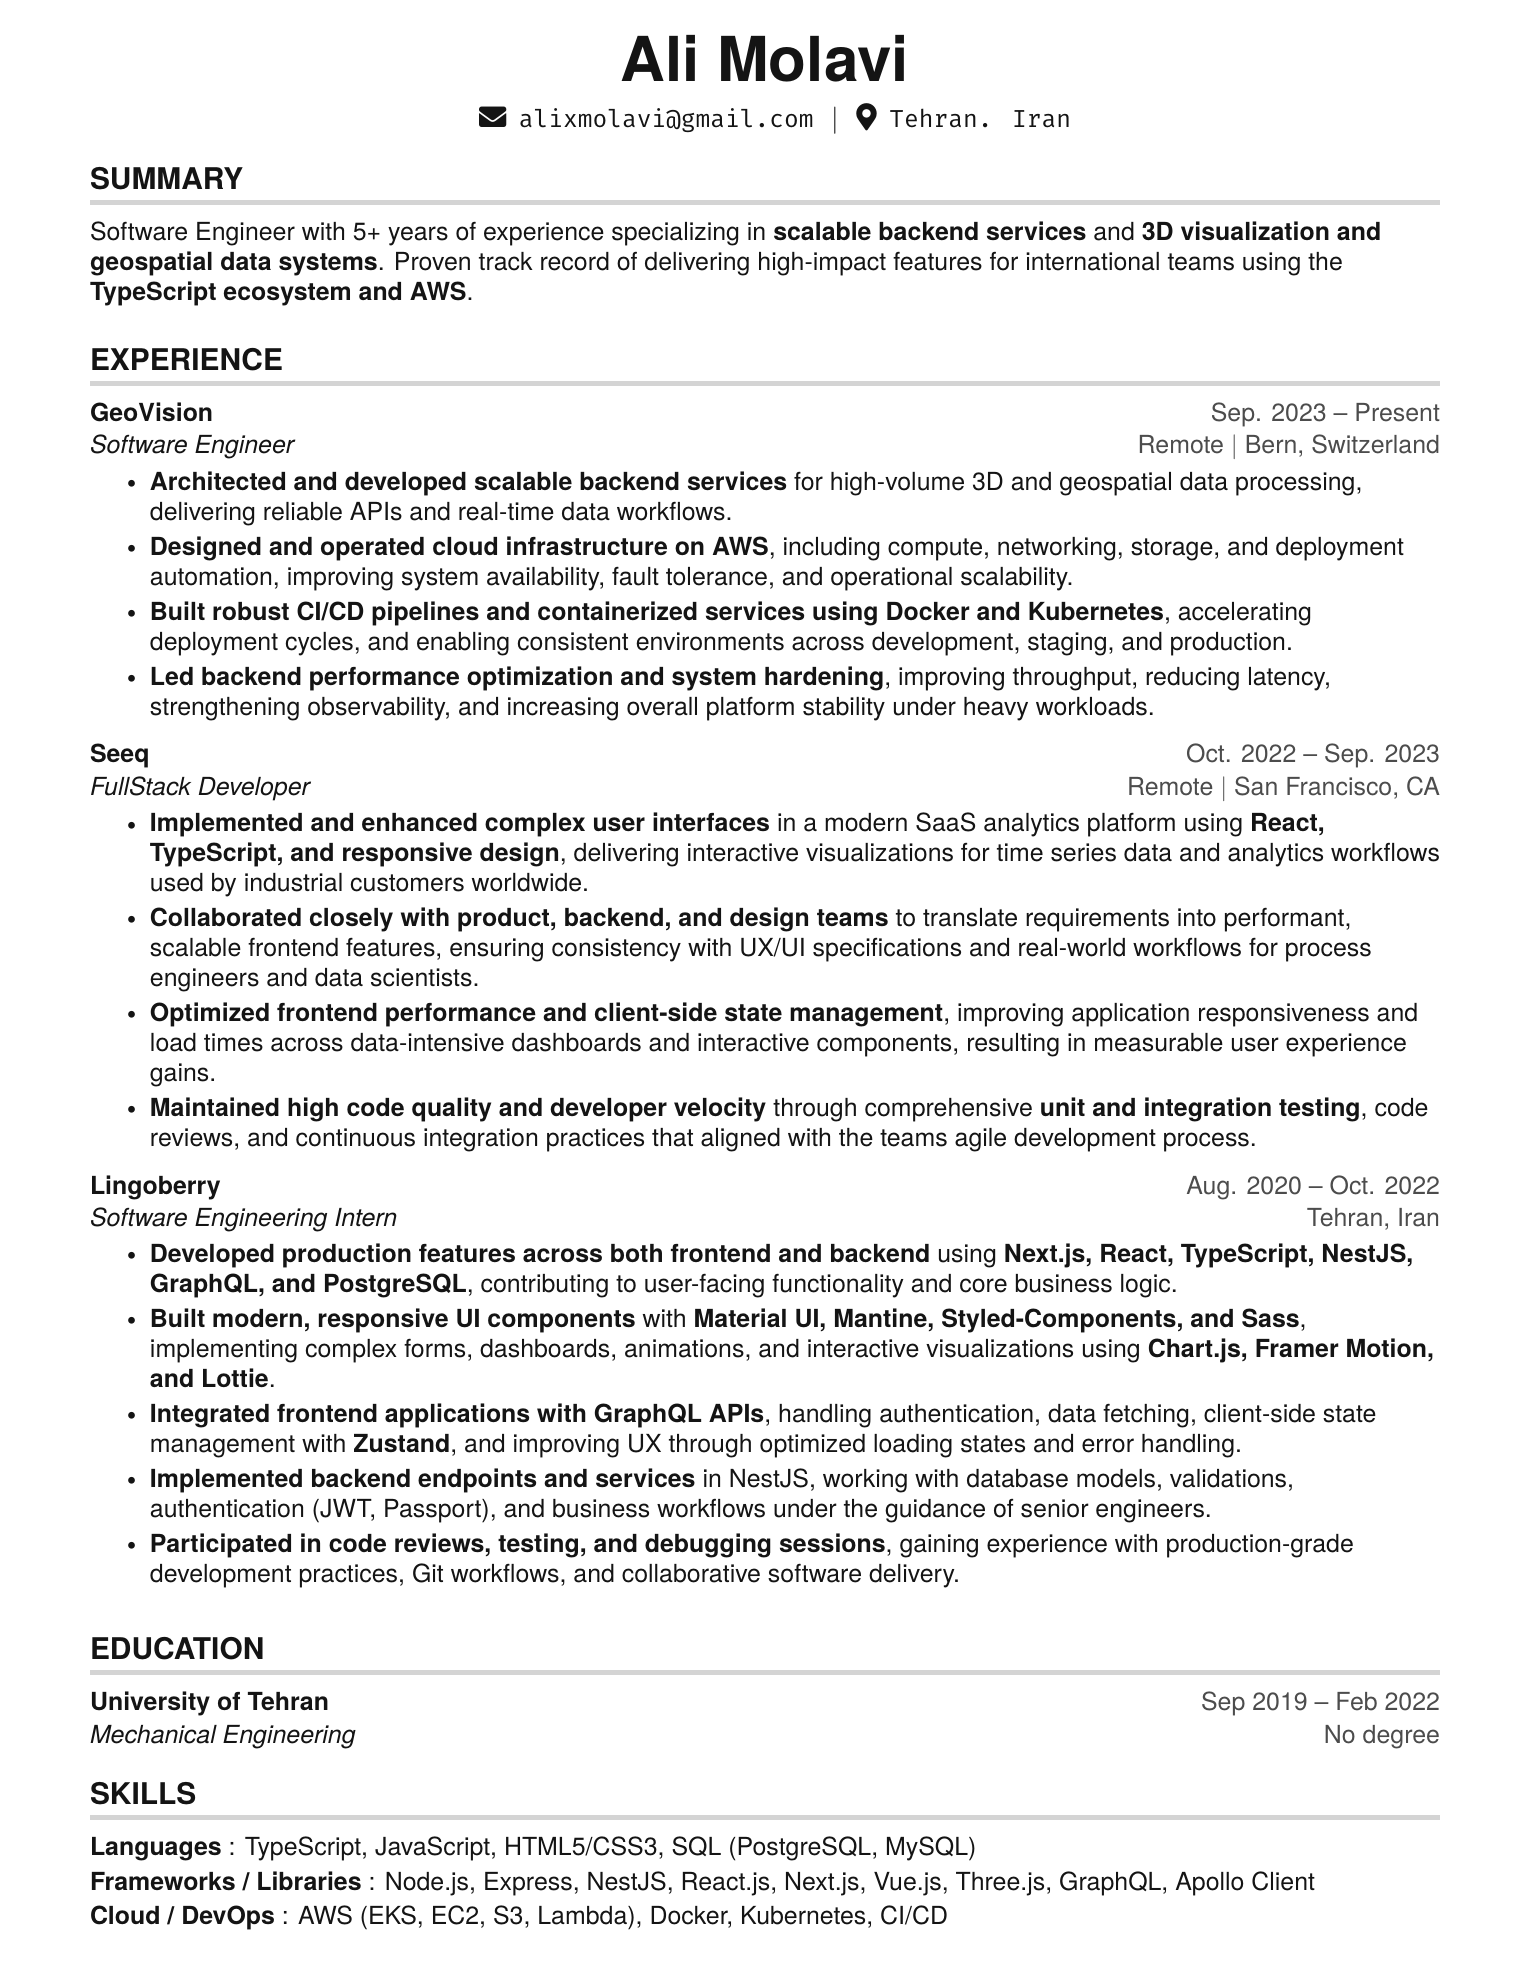
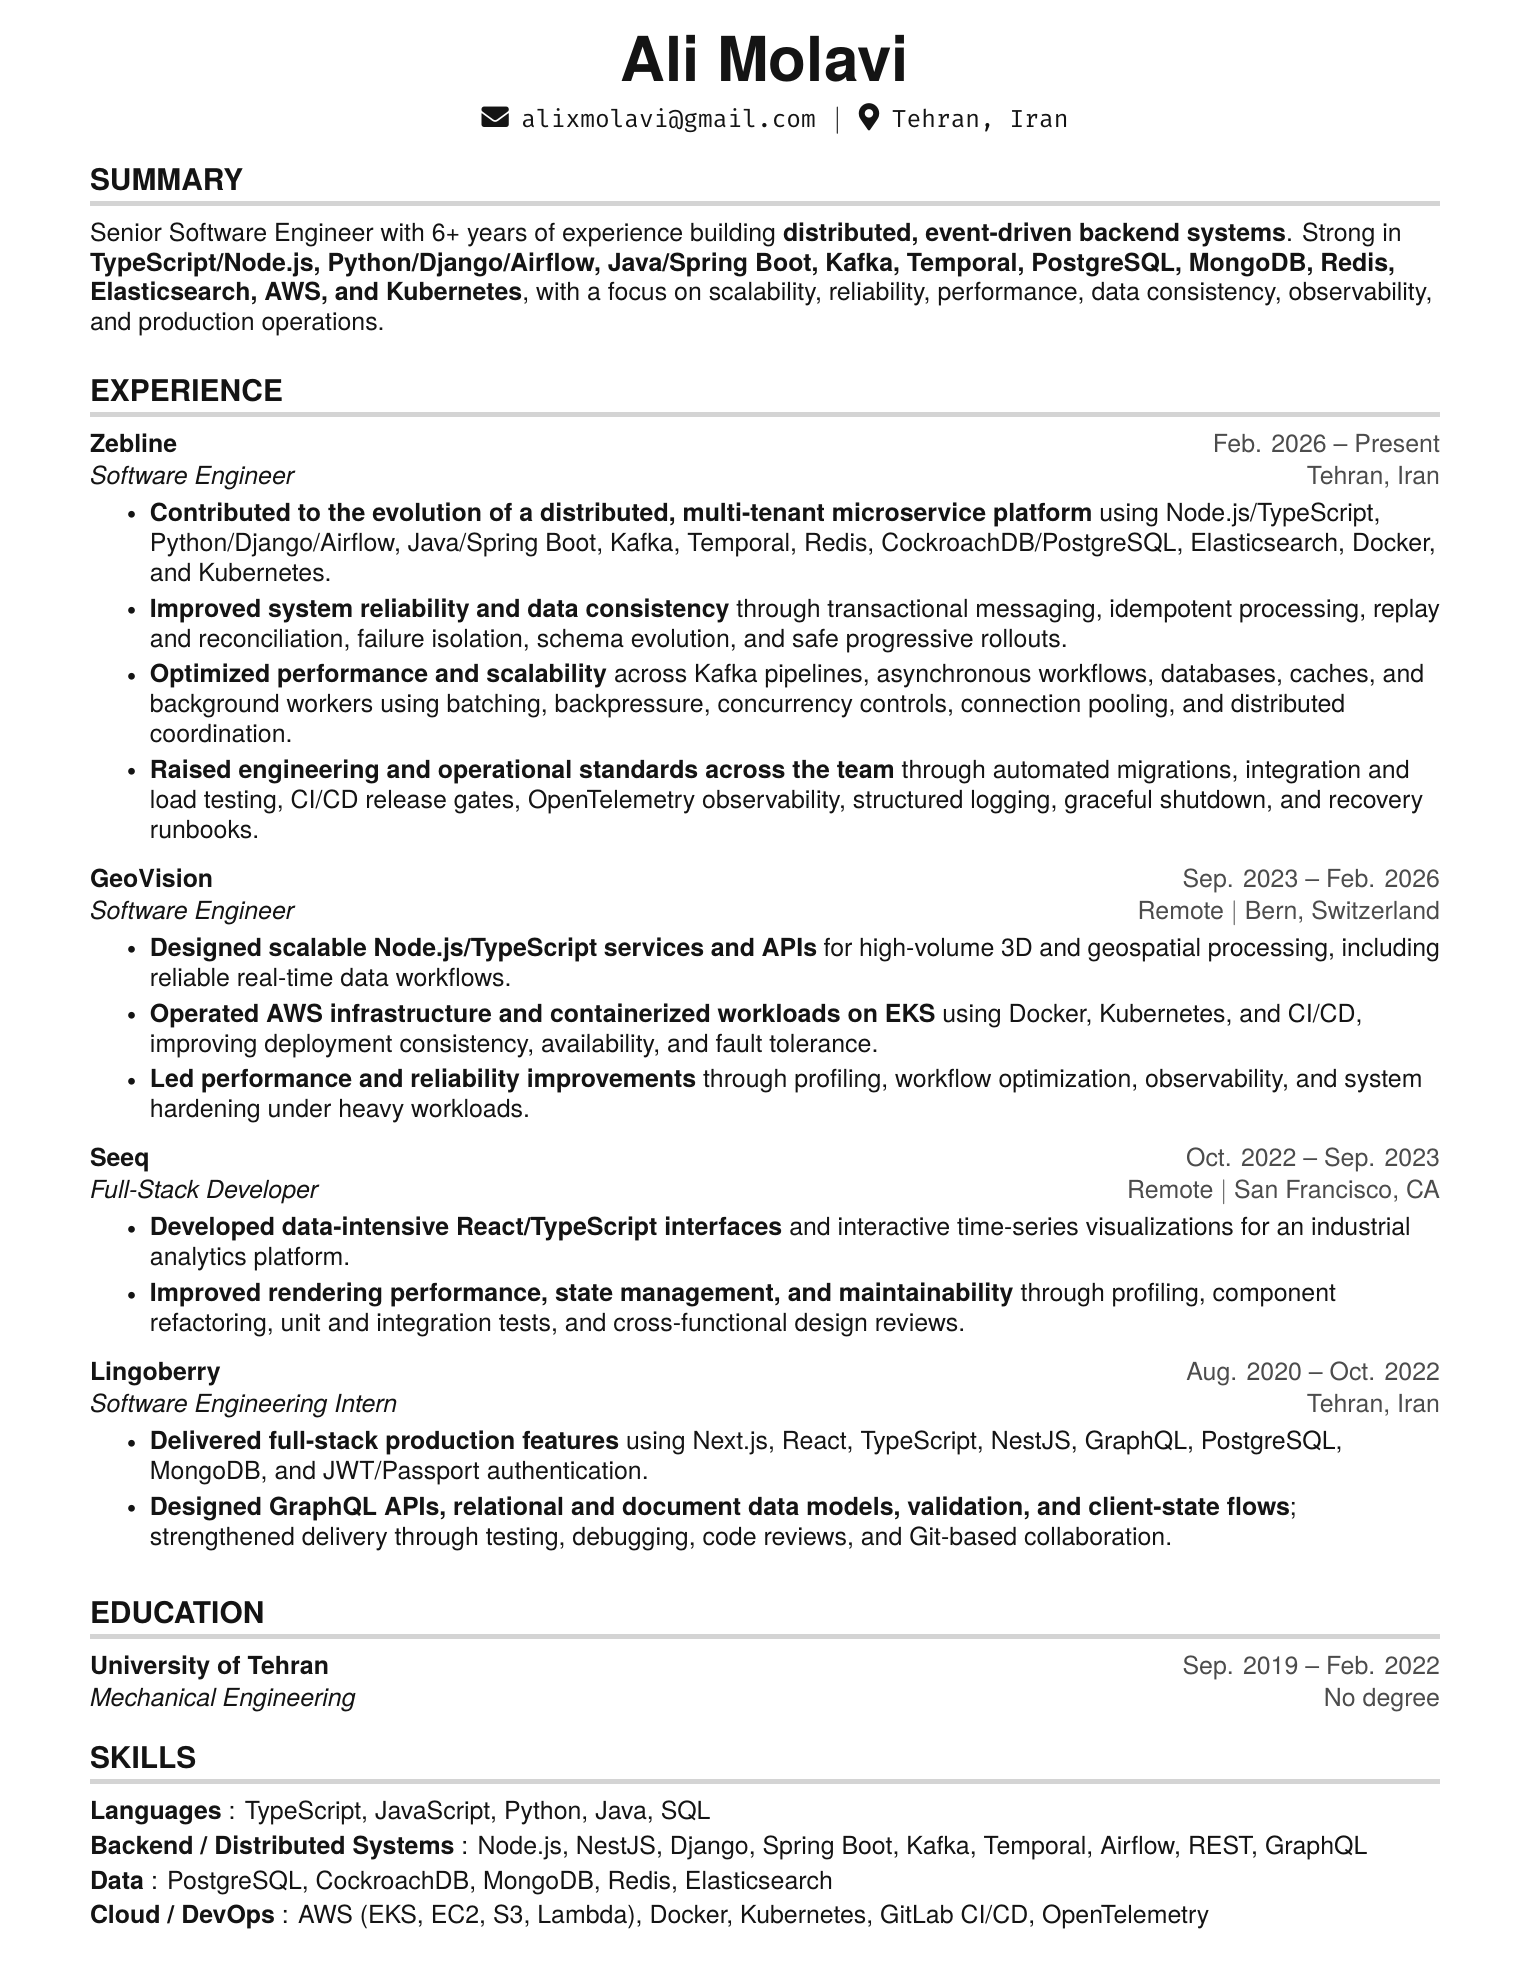
add zebline work experience

Changed region(s): [[0.0614, 0.0924, 0.9523, 0.9859], [0.4301, 0.0308, 0.4608, 0.0616]]

diff --git a/resume.tex b/resume.tex
@@ -113,47 +113,51 @@
     \textbf{\Huge Ali Molavi} \\ \vspace{5pt}
      \hspace{1pt}
     \hspace{1pt} \faEnvelope \hspace{2pt} \texttt{alixmolavi@gmail.com} \hspace{1pt} $|$
-    \hspace{1pt} \faMapMarker* \hspace{2pt}\texttt{Tehran. Iran}
+    \hspace{1pt} \faMapMarker* \hspace{2pt}\texttt{Tehran, Iran}
     \\ \vspace{-3pt}
 \end{center}
 
 %-----------SUMMARY-----------
 \section{SUMMARY}
-\small{Software Engineer with 5+ years of experience specializing in \textbf{scalable backend services} and \textbf{3D visualization and geospatial data systems}. Proven track record of delivering high-impact features for international teams using the \textbf{TypeScript ecosystem and AWS}.}
+\small{Senior Software Engineer with 6+ years of experience building \textbf{distributed, event-driven backend systems}. Strong in \textbf{TypeScript/Node.js, Python/Django/Airflow, Java/Spring Boot, Kafka, Temporal, PostgreSQL, MongoDB, Redis, Elasticsearch, AWS, and Kubernetes}, with a focus on scalability, reliability, performance, data consistency, observability, and production operations.}
 
 %-----------EXPERIENCE-----------
 \section{EXPERIENCE}
   \resumeSubHeadingListStart
 
     \resumeSubheading
-      {GeoVision}{Sep. 2023 -- Present}
+      {Zebline}{Feb. 2026 -- Present}
+      {Software Engineer}{Tehran, Iran}
+      \resumeItemListStart
+        \resumeItem{\textbf{Contributed to the evolution of a distributed, multi-tenant microservice platform} using Node.js/TypeScript, Python/Django/Airflow, Java/Spring Boot, Kafka, Temporal, Redis, CockroachDB/PostgreSQL, Elasticsearch, Docker, and Kubernetes.}
+        \resumeItem{\textbf{Improved system reliability and data consistency} through transactional messaging, idempotent processing, replay and reconciliation, failure isolation, schema evolution, and safe progressive rollouts.}
+        \resumeItem{\textbf{Optimized performance and scalability} across Kafka pipelines, asynchronous workflows, databases, caches, and background workers using batching, backpressure, concurrency controls, connection pooling, and distributed coordination.}
+        \resumeItem{\textbf{Raised engineering and operational standards across the team} through automated migrations, integration and load testing, CI/CD release gates, OpenTelemetry observability, structured logging, graceful shutdown, and recovery runbooks.}
+      \resumeItemListEnd
+
+    \resumeSubheading
+      {GeoVision}{Sep. 2023 -- Feb. 2026}
       {Software Engineer}{Remote $|$ Bern, Switzerland}
       \resumeItemListStart
-        \resumeItem{\textbf{Architected and developed scalable backend services} for high-volume 3D and geospatial data processing, delivering reliable APIs and real-time data workflows.}
-        \resumeItem{\textbf{Designed and operated cloud infrastructure on AWS}, including compute, networking, storage, and deployment automation, improving system availability, fault tolerance, and operational scalability.}
-         \resumeItem{\textbf{Built robust CI/CD pipelines and containerized services using Docker and Kubernetes}, accelerating deployment cycles, and enabling consistent environments across development, staging, and production.}
-        \resumeItem{\textbf{Led backend performance optimization and system hardening}, improving throughput, reducing latency, strengthening observability, and increasing overall platform stability under heavy workloads.}
+        \resumeItem{\textbf{Designed scalable Node.js/TypeScript services and APIs} for high-volume 3D and geospatial processing, including reliable real-time data workflows.}
+        \resumeItem{\textbf{Operated AWS infrastructure and containerized workloads on EKS} using Docker, Kubernetes, and CI/CD, improving deployment consistency, availability, and fault tolerance.}
+        \resumeItem{\textbf{Led performance and reliability improvements} through profiling, workflow optimization, observability, and system hardening under heavy workloads.}
       \resumeItemListEnd
 
     \resumeSubheading
       {Seeq}{Oct. 2022 -- Sep. 2023}
-      {FullStack Developer}{Remote $|$ San Francisco, CA}
+      {Full-Stack Developer}{Remote $|$ San Francisco, CA}
       \resumeItemListStart
-        \resumeItem{\textbf{Implemented and enhanced complex user interfaces} in a modern SaaS analytics platform using \textbf{React, TypeScript, and responsive design}, delivering interactive visualizations for time series data and analytics workflows used by industrial customers worldwide.}
-        \resumeItem{\textbf{Collaborated closely with product, backend, and design teams} to translate requirements into performant, scalable frontend features, ensuring consistency with UX/UI specifications and real-world workflows for process engineers and data scientists.}
-        \resumeItem{\textbf{Optimized frontend performance and client-side state management}, improving application responsiveness and load times across data-intensive dashboards and interactive components, resulting in measurable user experience gains.}
-        \resumeItem{\textbf{Maintained high code quality and developer velocity} through comprehensive \textbf{unit and integration testing}, code reviews, and continuous integration practices that aligned with the team’s agile development process.}
+        \resumeItem{\textbf{Developed data-intensive React/TypeScript interfaces} and interactive time-series visualizations for an industrial analytics platform.}
+        \resumeItem{\textbf{Improved rendering performance, state management, and maintainability} through profiling, component refactoring, unit and integration tests, and cross-functional design reviews.}
     \resumeItemListEnd
 
     \resumeSubheading
       {Lingoberry}{Aug. 2020 -- Oct. 2022}
       {Software Engineering Intern}{Tehran, Iran} 
       \resumeItemListStart
-        \resumeItem{\textbf{Developed production features across both frontend and backend} using \textbf{Next.js, React, TypeScript, NestJS, GraphQL, and PostgreSQL}, contributing to user-facing functionality and core business logic.}
-        \resumeItem{\textbf{Built modern, responsive UI components} with \textbf{Material UI, Mantine, Styled-Components, and Sass}, implementing complex forms, dashboards, animations, and interactive visualizations using \textbf{Chart.js, Framer Motion, and Lottie}.}
-        \resumeItem{\textbf{Integrated frontend applications with GraphQL APIs}, handling authentication, data fetching, client-side state management with \textbf{Zustand}, and improving UX through optimized loading states and error handling.}
-        \resumeItem{\textbf{Implemented backend endpoints and services} in NestJS, working with database models, validations, authentication (JWT, Passport), and business workflows under the guidance of senior engineers.}
-        \resumeItem{\textbf{Participated in code reviews, testing, and debugging sessions}, gaining experience with production-grade development practices, Git workflows, and collaborative software delivery.}
+        \resumeItem{\textbf{Delivered full-stack production features} using Next.js, React, TypeScript, NestJS, GraphQL, PostgreSQL, MongoDB, and JWT/Passport authentication.}
+        \resumeItem{\textbf{Designed GraphQL APIs, relational and document data models, validation, and client-state flows}; strengthened delivery through testing, debugging, code reviews, and Git-based collaboration.}
       \resumeItemListEnd
 
   \resumeSubHeadingListEnd
@@ -162,7 +166,7 @@
 \section{EDUCATION}
   \resumeSubHeadingListStart
     \resumeSubheading
-      {University of Tehran}{Sep 2019 -- Feb 2022}
+      {University of Tehran}{Sep. 2019 -- Feb. 2022}
       {Mechanical Engineering}{No degree}
   \resumeSubHeadingListEnd
 
@@ -170,9 +174,10 @@
 \section{SKILLS}
  \begin{itemize}[leftmargin=0in, label={}]
     \small{\item{
-     \textbf{Languages} {: TypeScript, JavaScript, HTML5/CSS3, SQL (PostgreSQL, MySQL)}\vspace{2pt} \\
-     \textbf{Frameworks / Libraries} {: Node.js, Express, NestJS, React.js, Next.js, Vue.js, Three.js, GraphQL, Apollo Client}\vspace{2pt} \\
-     \textbf{Cloud / DevOps} {: AWS (EKS, EC2, S3, Lambda), Docker, Kubernetes, CI/CD}
+     \textbf{Languages} {: TypeScript, JavaScript, Python, Java, SQL}\vspace{2pt} \\
+     \textbf{Backend / Distributed Systems} {: Node.js, NestJS, Django, Spring Boot, Kafka, Temporal, Airflow, REST, GraphQL}\vspace{2pt} \\
+     \textbf{Data} {: PostgreSQL, CockroachDB, MongoDB, Redis, Elasticsearch}\vspace{2pt} \\
+     \textbf{Cloud / DevOps} {: AWS (EKS, EC2, S3, Lambda), Docker, Kubernetes, GitLab CI/CD, OpenTelemetry}
     }}
  \end{itemize}
 
